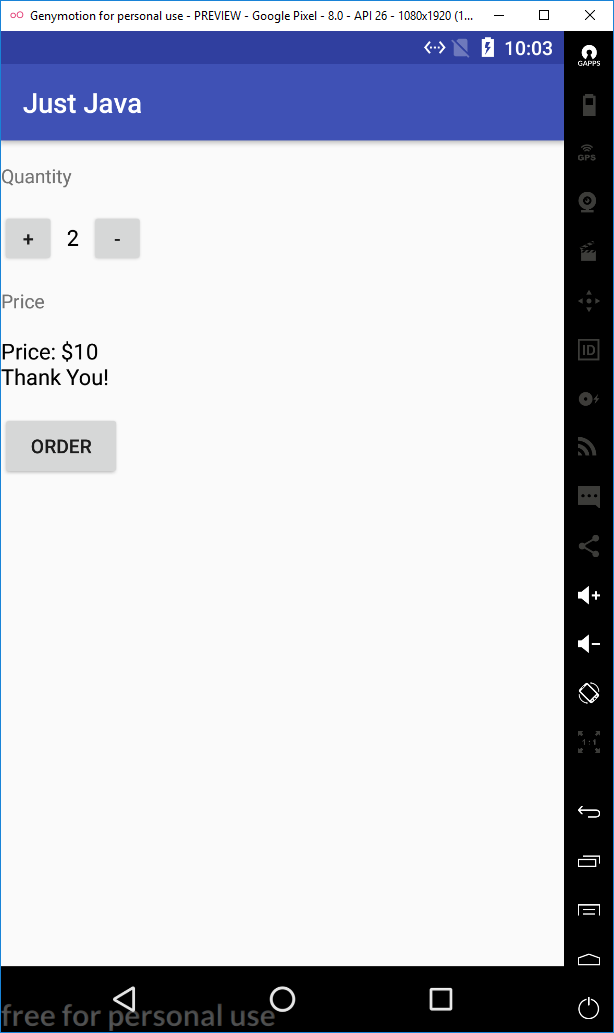
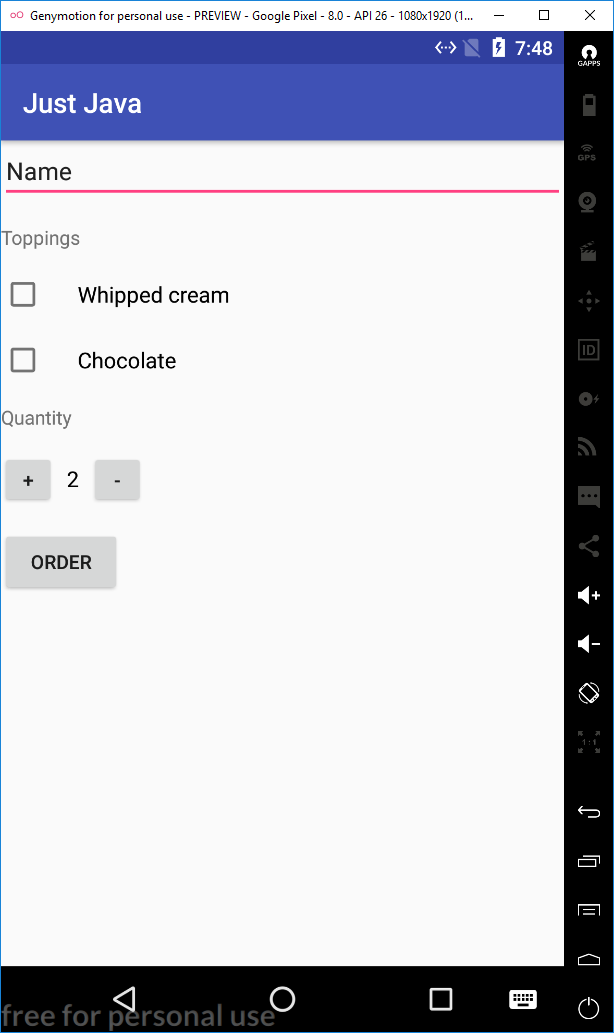
Lesson 11 completion.

diff --git a/app/src/main/java/com/example/android/justjava/MainActivity.java b/app/src/main/java/com/example/android/justjava/MainActivity.java
@@ -9,13 +9,15 @@
 package com.example.android.justjava;
 
 
-
+import android.content.Context;
+import android.content.Intent;
 import android.os.Bundle;
 import android.support.v7.app.AppCompatActivity;
 import android.view.View;
+import android.widget.CheckBox;
+import android.widget.EditText;
 import android.widget.TextView;
-
-import java.text.NumberFormat;
+import android.widget.Toast;
 
 /**
  * This app displays an order form to order coffee.
@@ -23,6 +25,8 @@ import java.text.NumberFormat;
 public class MainActivity extends AppCompatActivity {
     int quantity = 2;
     int priceOfCoffee = 5;
+    int priceOfChocolate = 2;
+    int priceOfWhippedCream = 1;
 
     @Override
     protected void onCreate(Bundle savedInstanceState) {
@@ -37,15 +41,35 @@ public class MainActivity extends AppCompatActivity {
     public void submitOrder(View view) {
 
 
-        String orderMessage = createOrderSummary(quantity);
 
-        displayMessage(orderMessage);
+        CheckBox whippedTextView = (CheckBox) findViewById(R.id.whiptopping_check_box);
+        boolean whippedChecked = whippedTextView.isChecked();
+
+        CheckBox chocolateTextView = (CheckBox) findViewById(R.id.chocolate_check_box);
+        boolean chocolateChecked = chocolateTextView.isChecked();
+
+        EditText usersNameEditText = (EditText) findViewById(R.id.nameofuser);
+
+        String orderMessage = createOrderSummary(quantity, whippedChecked, chocolateChecked, usersNameEditText.getText().toString());
+
+        composeEmail(getString(R.string.composeemailsubject, usersNameEditText.getText().toString()), orderMessage);
 
 
     }
 
-    private int calculatePrice(){
-        return quantity * priceOfCoffee;
+    private int calculatePrice(boolean chocolate, boolean whippedcream){
+        int coffeePrice = priceOfCoffee;
+
+        if(chocolate){
+            coffeePrice += priceOfChocolate;
+        }
+        if(whippedcream){
+            coffeePrice += priceOfWhippedCream;
+        }
+
+        coffeePrice = coffeePrice * quantity;
+
+        return coffeePrice;
     }
 
     /**
@@ -57,31 +81,29 @@ public class MainActivity extends AppCompatActivity {
         quantityTextView.setText("" + inputNumber);
     }
 
-    /**
-     * This method displays the given quantity value on the screen
-     * @param number
-     */
-    private void displayPrice(int number){
-        TextView orderSummaryTextView = (TextView) findViewById(R.id.order_summary_text_view);
-        orderSummaryTextView.setText(NumberFormat.getCurrencyInstance().format(number));
 
+    public void displayToast(String message){
+        Context context = getApplicationContext();
+        CharSequence text = message;
+        int duration = Toast.LENGTH_SHORT;
+
+        Toast toast = Toast.makeText(context, text, duration);
+        toast.show();
     }
-
-    /**
-     * This method displays the given text on the screen.
-     */
-    private void displayMessage(String message) {
-        TextView orderSummaryTextView = (TextView) findViewById(R.id.order_summary_text_view);
-        orderSummaryTextView.setText(message);
-    }
-
     /**
      * Increment quantity
      * @param view
      */
     public void increment(View view){
-        quantity = quantity +1;
-        displayQuantity(quantity);
+        if(quantity < 100) {
+            quantity = quantity + 1;
+            displayQuantity(quantity);
+        }
+        else{
+            //add toast here.
+            displayToast(getString(R.string.morethan100toast));
+            return;
+        }
     }
 
     /**
@@ -89,8 +111,15 @@ public class MainActivity extends AppCompatActivity {
      * @param view
      */
     public void decrement(View view){
-        quantity = quantity -1;
-        displayQuantity(quantity);
+        if(quantity > 1) {
+            quantity = quantity - 1;
+            displayQuantity(quantity);
+        }
+        else{
+            //toast for oops
+            displayToast(getString(R.string.lessthan1toast));
+            return;
+        }
     }
 
     /**
@@ -98,17 +127,29 @@ public class MainActivity extends AppCompatActivity {
      * @param orderPrice
      * @return
      */
-    public String createOrderSummary(int orderPrice){
+    public String createOrderSummary(int orderQty, boolean whippedTopping, boolean chocolateTopping, String nameOfUser){
 
-        String nameOfUser = "Kaptain Kunal";
-        int price = calculatePrice();
 
-        String priceMessage = "Name: " + nameOfUser + "\n";
-        priceMessage = priceMessage + "Quantity: " + orderPrice + "\n";
-        priceMessage = priceMessage + "Total: $" + price + "\n";
-        priceMessage = priceMessage + "Thank You!";
+        int price = calculatePrice(chocolateTopping, whippedTopping);
+
+        String priceMessage = getString(R.string.composebodyline1, nameOfUser) + "\n";
+        priceMessage = priceMessage + getString(R.string.composebodyline2, whippedTopping) + "\n";
+        priceMessage = priceMessage + getString(R.string.composebodyline3, chocolateTopping) + "\n";
+        priceMessage = priceMessage + getString(R.string.composebodyline4, orderQty) + "\n";
+        priceMessage = priceMessage + getString(R.string.composebodyline5, price) + "\n";
+        priceMessage = priceMessage + getString(R.string.composebodyline6);
 
         return priceMessage;
+    }
+
+    public void composeEmail(String subject, String message) {
+        Intent intent = new Intent(Intent.ACTION_SEND);
+        intent.setType("text/plain");
+        intent.putExtra(Intent.EXTRA_SUBJECT, subject);
+        intent.putExtra(Intent.EXTRA_TEXT, message);
+        if (intent.resolveActivity(getPackageManager()) != null) {
+            startActivity(intent);
+        }
     }
 
 
